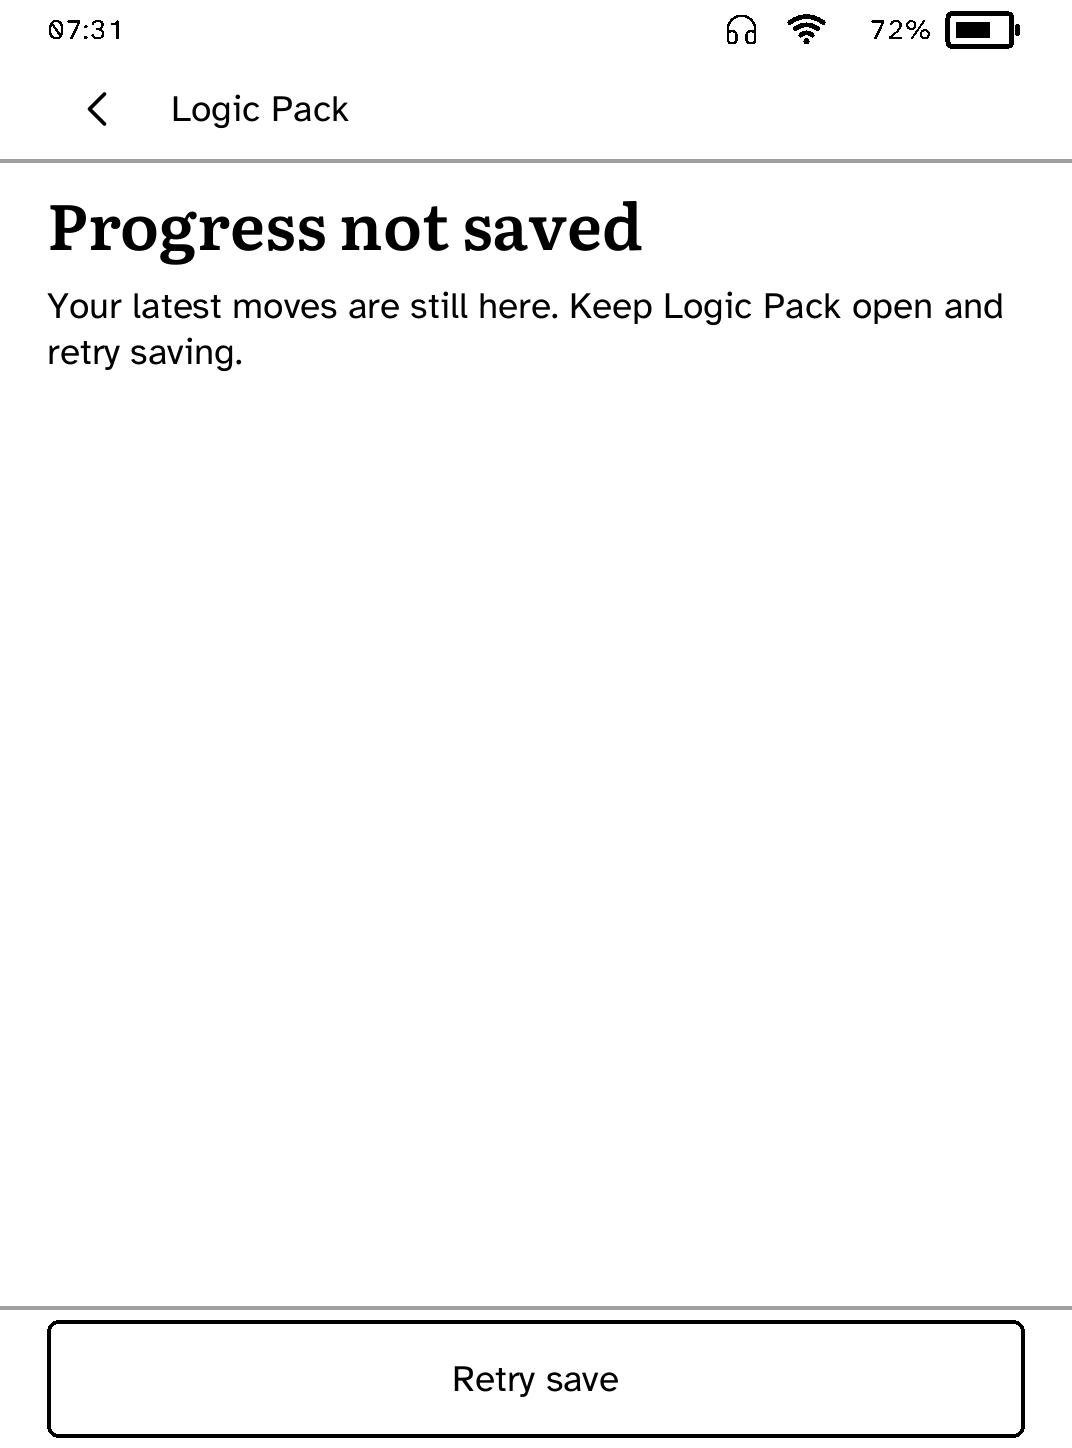
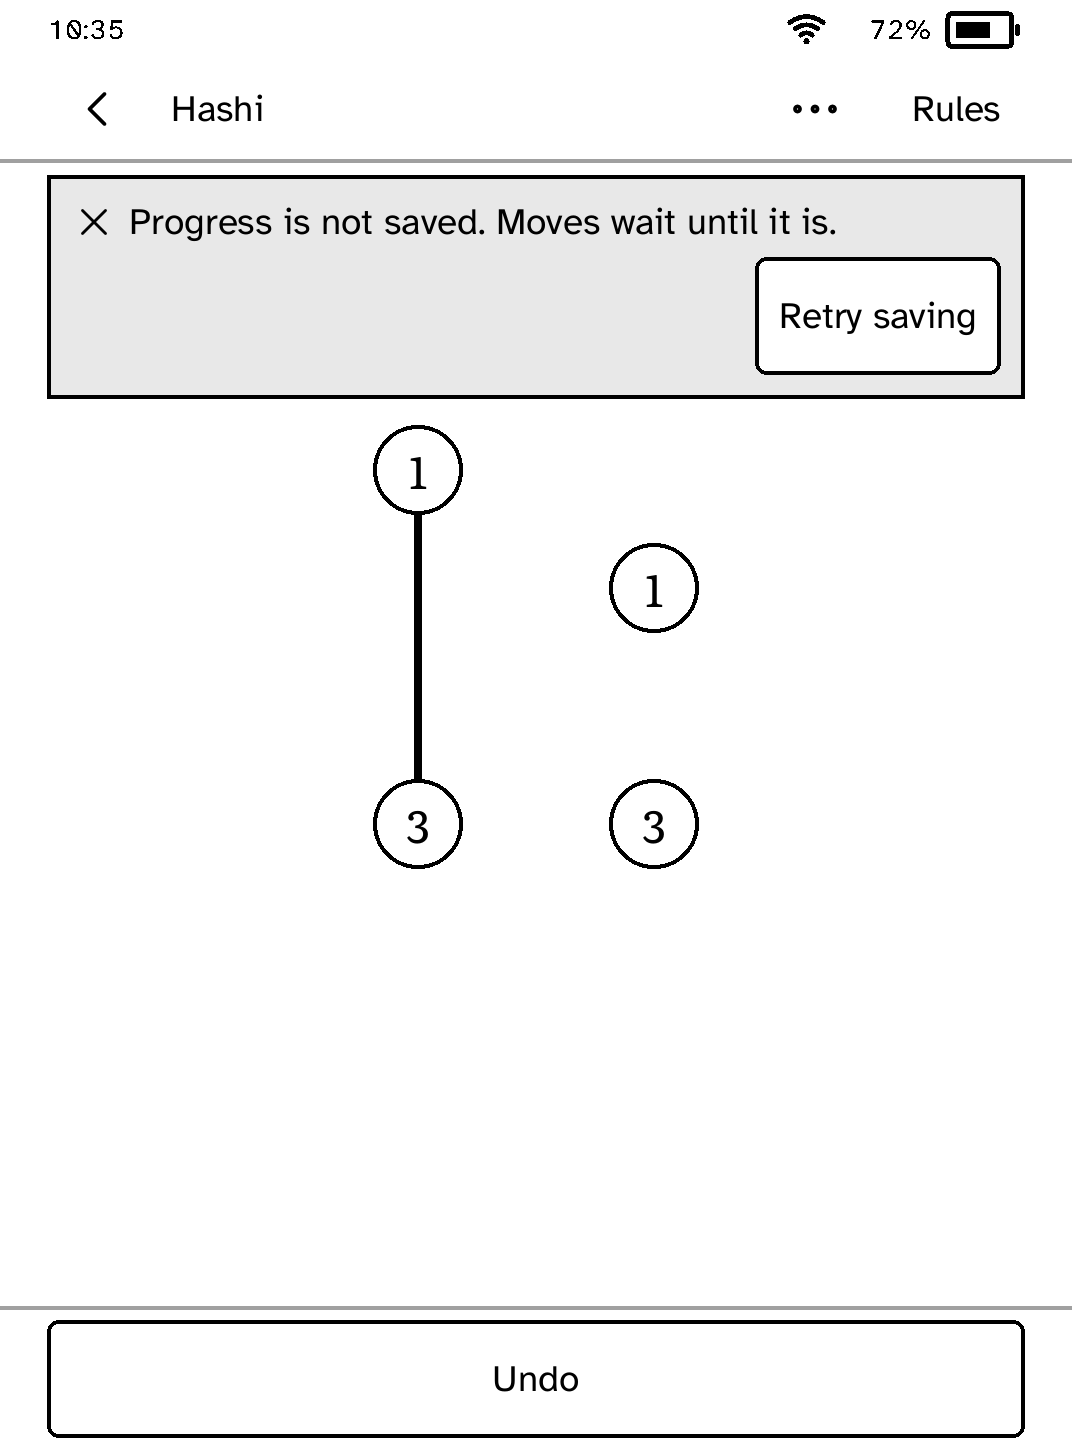
Keep a Logic Pack puzzle in view when its save is refused
A refused save replaced the puzzle with a page saying so. It is now a line over the board carrying Retry saving, so the moves made so far stay in view, as Backgammon keeps its board. Saving is quiet when it works: the line over the board no longer adds "Saved" or "Saving" beside the notice after every move.

The route refuses a save on a Hashi puzzle and retries it, and the published save-failed and Minesweeper screenshots are retaken.

diff --git a/docs/apps/logicpack/index.html b/docs/apps/logicpack/index.html
@@ -120,7 +120,7 @@
   </section>
   <section class="whats-new">
     <h2>New in 0.1.13</h2>
-    <p>Puzzles are numbered from the start of their own level, so the Starter list no longer begins at Puzzle 6.</p>
+    <p>Puzzles are numbered from the start of their own level. Saving is quiet when it works, and a failed save is a line over the board with Retry saving rather than a page hiding it.</p>
   </section>
   <section class="panel get-cobalt" id="setup-panel">
     <div class="get-cobalt-copy">

diff --git a/apps/logicpack/src/main.rs b/apps/logicpack/src/main.rs
@@ -661,7 +661,11 @@ impl Game {
                 head().text("Opening puzzles…").build()
             };
         }
-        if matches!(self.draft.status(), Status::Failed(_)) {
+        // A refused save on a puzzle is a line over the board, not a page
+        // in its place: the board stays in view, as Backgammon keeps its.
+        if matches!(self.draft.status(), Status::Failed(_))
+            && !(self.view == View::Puzzle && self.kind != Kind::Home)
+        {
             return failure_screen(
                 || ScreenBuilder::new("logicpack-save-failed").top_bar("Logic Pack"),
                 &self.metrics,
@@ -793,11 +797,8 @@ impl Game {
     /// have one, and becomes the obvious next step once a puzzle ends: the
     /// next puzzle after a win, a restart after a mine.
     fn play(&self, board: impl FnOnce(ScreenBuilder) -> ScreenBuilder) -> Screen {
-        let saved = match self.draft.status() {
-            Status::Saved => "Saved",
-            Status::Saving | Status::Unsaved => "Saving…",
-            Status::Failed(_) => "Not saved",
-        };
+        // Saving is quiet when it works: "Saved" beside every move said
+        // nothing anybody needed, and a failure has its own line.
         let status = if self.kind == Kind::Mines {
             // A cleared field shows every mine as a flag, so it counts them so.
             let flags: usize = if self.outcome == Outcome::Solved {
@@ -808,9 +809,9 @@ impl Game {
                     .map(|c| usize::from(*c == 2))
                     .sum()
             };
-            format!("{flags} of {} flagged · {saved}", self.mines.count_ones())
+            format!("{flags} of {} flagged", self.mines.count_ones())
         } else {
-            saved.to_owned()
+            String::new()
         };
         let verb = match (self.kind, self.outcome) {
             (_, Outcome::Solved) => Some(("next-puzzle", "Next puzzle")),
@@ -827,6 +828,8 @@ impl Game {
         // The notice and the save state share one line above the board, so
         // the largest field still fits a six-inch panel at the largest text.
         let notice = self.notice.clone();
+        let line_notice = notice.clone();
+        let has_status = !status.is_empty();
         let line: [(SlotWidth, Slot); 2] = [
             (
                 SlotWidth::Fill,
@@ -839,8 +842,19 @@ impl Game {
         ];
         let screen = ScreenBuilder::new("logicpack-play")
             .game_top_bar(self.kind.title(), self.menu, MORE)
-            .owns_back(true)
-            .band(BandAlign::Middle, line);
+            .owns_back(true);
+        let screen = if matches!(self.draft.status(), Status::Failed(_)) {
+            screen
+                .banner(
+                    kobo_sdk::BannerLevel::Error,
+                    "Progress is not saved. Moves wait until it is.",
+                )
+                .banner_action("retry-save", "Retry saving")
+        } else if has_status {
+            screen.band(BandAlign::Middle, line)
+        } else {
+            screen.secondary(line_notice)
+        };
         board(screen).game_actions(true, verb).build()
     }
 
@@ -1927,11 +1941,11 @@ mod p16_tests {
         assert!(button.y >= reason.y + reason.height, "{metrics:?}");
     }
 
-    /// An unreadable record and a refused save each fill the screen, so each
-    /// is a splash with its one fix directly under the reason: Try again for
-    /// the read and Retry saving for the write.
+    /// An unreadable record leaves nothing to show, so it is a splash with
+    /// Try again directly under the reason. A refused save leaves the puzzle
+    /// in place, so it is a line over the board carrying Retry saving.
     #[test]
-    fn load_and_save_failures_are_splashes_with_their_fix_directly_under_them() {
+    fn a_failed_load_is_a_splash_and_a_failed_save_a_line_over_the_board() {
         for (width, height, ppi) in [(1072, 1448, 300), (758, 1024, 212)] {
             for text_scale in TextScale::STEPS {
                 let metrics = clara(width, height, ppi, text_scale);
@@ -1963,7 +1977,20 @@ mod p16_tests {
                 );
                 assert!(matches!(g.draft.status(), Status::Failed(_)));
                 g.metrics = metrics;
-                assert_failure_splash(&g.screen(), metrics, "retry-save", "Retry saving");
+                // A refused save on a puzzle keeps the board in view under a
+                // line that carries its retry, as Backgammon's does.
+                let screen = g.screen();
+                let chrome = Chrome::measuring(true);
+                assert!(
+                    !screen.diagnostics(&metrics, &chrome).has_errors(),
+                    "{metrics:?}"
+                );
+                let layout = screen.layout_with(&metrics, &chrome);
+                assert!(layout.rect_of_action(action_id("retry-save")).is_some());
+                assert!(
+                    layout.rect_of_action(action_id("route-0")).is_some(),
+                    "{metrics:?}: the board is hidden"
+                );
             }
         }
     }
